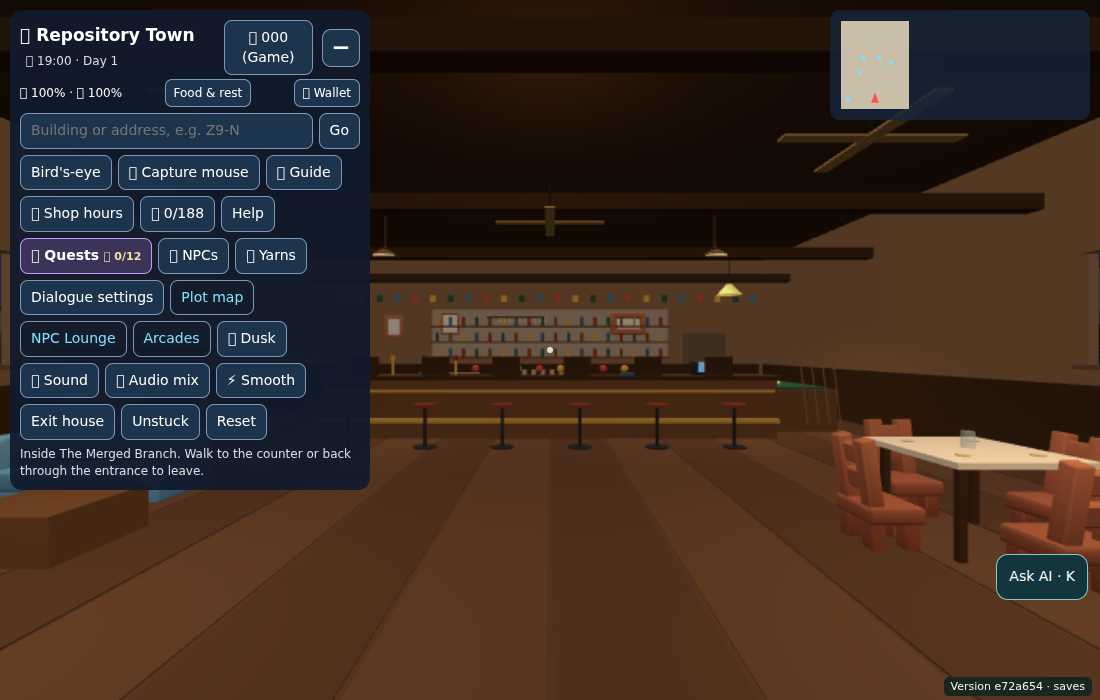
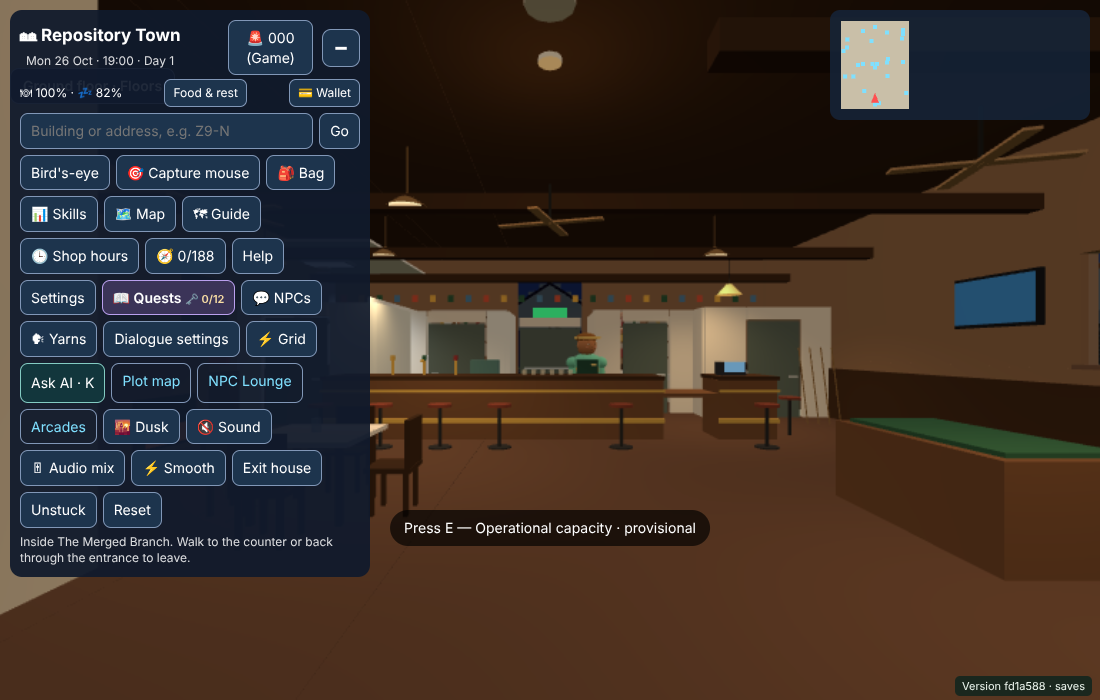
feat(interiors): realistic hardware & timber store, fully stocked general store, upgraded shared office template
Hardware: garden and paint by the door, stocked gondolas with printed aisle
signs, staffed trade & timber counter with fastener drawers, timber-yard
rack and log stack. General Store: open gondolas (stock was hidden behind
solid side panels) and instanced stock, 741 -> 231 meshes. Shared template
(ten buildings): panelled counter with PC and terminal, queue rope, open
stocked shelving, waiting area, framed notices and clock.

Claude-Session: https://claude.ai/code/session_01Df8YZa9C9g3jYmzSNjYYjR

diff --git a/repository-town/src/world/trade-education-interiors.js b/repository-town/src/world/trade-education-interiors.js
@@ -1,4 +1,4 @@
-import { createKit } from './interior-kit.js';
+import { createKit, signFace } from './interior-kit.js';
 
 // A shared collision-tested building envelope with four DISTINCT layouts.
 // Each showroom, classroom and workshop uses a central pedestrian aisle.
@@ -7,25 +7,7 @@ export function buildTradeEducationInterior(site,makeLabel){
  const k=createKit(site,makeLabel,site.name),{box,solid,cyl,ball,seat,add,model,text}=k;
  const WOOD=0x9e7957,STEEL=0x6c7a86,WHITE=0xeee9db,BROWN=0x60482e;
  if(site.id==='hardware'){
-   k.shell({wall:0xd7c2a3,ceiling:0xddd3bd,floor:0x9e9e92});
-   // Front service bench and stockroom at the rear. Central two-metre aisle.
-   solid(4.2,1.0,.85,3.7,.5,-6.45,BROWN);
-   box(1.5,.06,.72,4.8,1.08,-6.45,0xc5b6a1);
-   add('trade-counter','Buy and collect building materials','civic-ledger',
-     'Itemised stock, finite inventory, point-of-sale receipts and special-order repairs.',3.6,-5.25);
-   for(const x of [-5.2,-3.3,3.3,5.2]){
-     for(const z of [-7.6,-4.4,-1.2]){
-       solid(.85,2.3,1.25,x,1.15,z,STEEL);
-       for(const y of [.7,1.35,2.0]){
-         box(.7,.15,1.0,x,y,z,0xb6a37b);
-         for(const off of [-.31,.31])box(.18,.22,.62,x+off,y+.16,z,Math.abs(x)>4?0x5e8e9d:0xc7a46d);
-       }
-     }
-   }
-   for(const x of [-4.6,4.6]){solid(1.6,.75,.8,x,.37,3.35,0xb5a17f);box(1.5,.1,.7,x,.84,3.35,0xf6e4ad);}
-   text('Timber · Plumbing · Electrical · Tools',0,3.7,-8.9,'room');
-   add('paint','Paint mixing desk','info','Paint and coatings have finite stock, invoices and safe handling instructions.',-4.3,1.5);
-   add('special-orders','Goods receiving','info','Foundry parts, reclaimed metal and rail freight feed the warehouse. Stock cannot appear from nothing.',4.5,-7.8);
+   hardwareStore(k);
  }else if(site.id==='trades'){
    k.shell({wall:0xabb8c1,ceiling:0xcbd4db,floor:0x7b858c});
    // 2 enclosed storage bays and clear work access through centre.
@@ -89,5 +71,95 @@ export function buildTradeEducationInterior(site,makeLabel){
    add('library','Scholarly library and databases','info','Books, journals, research methods, scholarly integrity and supervised thesis projects.',-3.9,4.5);
    add('engineering','Engineering research lab','info','Structural analysis, town water modelling, energy systems and empirical data for the dissertation.',4.1,4.5);
  }
- return k.finish({staff:{pos:{x:1.1,z:-9.1},use:{x:1.1,z:-6.8}}});
+ // The hardware store's trade counter is staffed from behind; the others keep the shared desk spot.
+ return k.finish({staff:site.id==='hardware'?{pos:{x:3.9,z:-9.65},use:{x:3.9,z:-7.5}}:{pos:{x:1.1,z:-9.1},use:{x:1.1,z:-6.8}}});
 }
+
+// Central West Hardware & Timber, laid out like a regional Australian "hardware and timber" store
+// (Mitre 10 / Home Hardware format): garden and paint by the door, double-sided gondolas with
+// hanging aisle signs either side of a wide main aisle, the trade counter at the back with the
+// fastener drawers and key cutting behind it, and the timber yard's cantilever rack beside it.
+// Room: x ±7, z −12 (back) … 6 (door). Stock is drawn as instanced packets: one draw call each.
+function hardwareStore(k){
+ const {THREE,group,box,solid,cyl,add,text,blocker}=k;
+ const BROWN=0x60482e,STEEL=0x7d8a94,PEG=0xcdb48a,PINE=0xe2c48a,BACK=-11.88;
+ const packets=[],tins=[];
+ // Deterministic variety without randomness: the same store every visit.
+ const pick=(arr,i)=>arr[(i*7+Math.floor(i/3))%arr.length];
+ const shelfRow=(x,face,y,z0,z1,palette,seed,depth=.32)=>{
+   for(let z=z0,i=seed;z<z1-.12;i++){
+     const w=.16+((i*13)%5)*.05,h=.14+((i*11)%4)*.06;
+     packets.push({x:x+face*(.1+depth/2),y:y+h/2,z:z+w/2,sx:depth,sy:h,sz:w,c:pick(palette,i)});
+     z+=w+.03;
+   }
+ };
+ k.shell({wall:0xe4dccb,ceiling:0xe8e2d4,floor:0xa9a69b});
+ // Trade & timber counter at the back right, staff behind it facing the shop.
+ solid(4.4,1.0,.8,3.9,.5,-8.6,BROWN);
+ box(4.5,.06,.9,3.9,1.03,-8.6,0xc5b6a1);
+ box(.5,.3,.4,2.1,1.21,-8.7,0x8a949c);cyl(.07,.07,.02,2.0,1.4,-8.55,0x5b6168,{rx:Math.PI/2},16);  // key cutter
+ box(.36,.26,.05,4.6,1.2,-8.45,0x1f2a33,{e:0x2f6f9a});                                            // POS screen
+ // Fastener drawer wall behind the counter: rows of small labelled drawers.
+ solid(4.4,1.9,.55,3.9,.95,-11.55,0x8c949a);
+ for(let r=0;r<7;r++)for(let c=0;c<16;c++)packets.push({x:1.95+c*.26,y:.3+r*.24,z:-11.26,sx:.22,sy:.18,sz:.04,c:(r+c)%2?0xb9c0c5:0xa5adb3});
+ text('Trade counter · tools, materials and the timber yard',3.9,3.25,-8.4,'room');
+ add('trade-counter','Trade & timber counter · buy tools, sell logs','civic-ledger',
+   'Hatchets, tinderboxes and building materials from finite stock, with receipts. The timber yard buys logs here out of the till.',3.9,-7.5);
+ // Timber yard: a cantilever rack of treated pine lengths, and the logs the yard has bought.
+ for(const x of [-6.4,-4.2,-2.0]){box(.14,2.6,.16,x,1.3,-11.55,0x3f5566);for(let y=0;y<4;y++)box(.1,.06,.9,x,.35+y*.6,-11.2,0x3f5566);}
+ for(let y=0;y<4;y++)for(let j=0;j<5;j++)box(4.7,.09,.09,-4.2,.42+y*.6+(j%2)*.09,-11.6+j*.17,y%2?PINE:0xc9a56a);
+ blocker(4.9,1.0,-4.2,-11.3);
+ text('Timber yard · treated pine, hardwood, sleepers',-4.2,3.25,-11.0,'room');
+ for(let row=0;row<3;row++)for(let i=0;i<5-row;i++)cyl(.16,.16,1.9,-5.0+i*.36+row*.18,.17+row*.29,-9.4,0x8a6440,{rz:Math.PI/2},10);
+ blocker(2.3,.5,-4.3,-9.4);
+ add('timber-yard','Timber yard and log stack','info',
+   'Logs cut at the Town Woodlot are bought at the trade counter for the timber yard: ordinary logs $4, oak $9, willow $16 each, paid from the store’s own till.',-4.2,-8.3);
+ // Goods receiving: the roller door at the back between the yard and the counter.
+ box(2.6,2.7,.06,-.1,1.35,BACK+.04,0x9aa3a8);for(let i=0;i<9;i++)box(2.6,.03,.07,-.1,.2+i*.3,BACK+.06,0x7f878c);
+ add('special-orders','Goods receiving','info','Foundry parts, reclaimed metal and rail freight feed the warehouse. Stock cannot appear from nothing.',-.1,-10.4);
+ // Gondolas: two double-sided runs each side of the main aisle, aisle signs hanging above.
+ const AISLES=[
+   [-5.1,'Paint & adhesives',[0xd94c3d,0xf2f2ee,0x3b6fb6,0xf0c419,0x4d4d4d,0x2f8f5b]],
+   [-2.4,'Garden & outdoor',[0x4f9a3a,0x8b6a3d,0xd8b04a,0x2d6e3e,0xc0532f]],
+   [2.4,'Plumbing & electrical',[0xf4f4f0,0x2f6db3,0xe0a526,0x9aa3ab,0xd03b30]],
+   [5.1,'Tools & fasteners',[0xf2b705,0x2b2b2b,0xd2341f,0x3a7bd5,0x8e9aa4,0x2f7d32]],
+ ];
+ for(const [x,name,palette] of AISLES){
+   box(.9,.12,6.0,x,.06,-3.8,0x4a4f55);box(.06,1.95,6.0,x,1.0,-3.8,STEEL);blocker(.92,6.0,x,-3.8);
+   for(const [i,y] of [.18,.62,1.06,1.5].entries()){
+     box(.9,.03,6.0,x,y,-3.8,0xb8bec3);
+     for(const face of [-1,1])shelfRow(x,face,y+.015,-6.8,-.8,palette,i*31+(face>0?7:0)+Math.round(x*10));
+   }
+   box(1.4,.34,.04,x,2.75,-.75,0x1e6a3a);box(.02,.5,.02,x-.5,3.15,-.75,0x777777);box(.02,.5,.02,x+.5,3.15,-.75,0x777777);
+   signFace(THREE,group,name,1.36,.3,x,2.75,-.725);
+ }
+ // Pegboards on the side walls past the windows, hung with carded tools and packets.
+ for(const side of [-1,1]){
+   box(.04,1.6,4.2,side*6.86,1.55,-6.8,PEG);
+   for(let r=0;r<5;r++)for(let c=0;c<12;c++)packets.push({x:side*6.8,y:.95+r*.3,z:-8.6+c*.33,sx:.03,sy:.2,sz:.16,c:pick([0xd2341f,0x3a7bd5,0xf2b705,0x2f7d32,0x2b2b2b],r*12+c)});
+ }
+ // Paint by the door: a tin wall on the left and the tinting desk.
+ solid(.6,2.1,3.0,-6.62,1.05,3.7,0xd9d4c8);
+ for(let r=0;r<5;r++)for(let c=0;c<9;c++)tins.push({x:-6.25,y:.3+r*.4,z:2.45+c*.31,c:pick([0xf2f2ee,0xe8dcc0,0xd94c3d,0x3b6fb6,0x6c8f5a,0x4d4d4d],r*9+c)});
+ solid(1.6,.95,.7,-4.6,.47,2.6,0xe9e6df);box(.5,.55,.45,-5.1,1.23,2.6,0xd6d8da);box(.42,.3,.05,-4.4,1.12,2.28,0x2a2d31,{e:0x2f6f9a});
+ text('Paint mixing · any colour, while you wait',-4.6,2.6,2.6,'room');
+ add('paint','Paint mixing desk','info','Paint and coatings have finite stock, invoices and safe handling instructions. Colours are tinted to order at the desk.',-4.3,1.5);
+ // Garden by the door on the right: bagged potting mix on a pallet, pots and wheelbarrows.
+ solid(1.2,.12,1.0,4.7,.06,3.4,0xb08a5a);
+ for(let y=0;y<4;y++)for(const dz of [-.25,.25])box(1.1,.16,.46,4.7,.2+y*.17,3.4+dz,y%2?0x3d6b2f:0x5b3c22);
+ blocker(1.2,1.0,4.7,3.4);
+ for(const [x,z,r] of [[6.2,4.6,.28],[6.2,3.9,.22],[6.3,3.3,.18]]){cyl(r,r*.75,r*1.6,x,r*.8,z,0xb8643c);}
+ blocker(.8,2.0,6.2,3.95);
+ for(const z of [1.9,0.7]){box(.75,.32,.55,3.7,.62,z,0x2f6db3);box(.06,.06,1.0,3.38,.7,z+.7,0x555555);box(.06,.06,1.0,4.02,.7,z+.7,0x555555);cyl(.18,.18,.07,3.7,.2,z-.28,0x222222,{rz:Math.PI/2},12);}
+ blocker(.9,2.2,3.7,1.6);
+ text('Garden & outdoor',4.9,2.4,3.4,'room');
+ // Instanced stock: packets and drawers as one mesh, paint tins as another.
+ const m4=new THREE.Matrix4(),q=new THREE.Quaternion(),col=new THREE.Color();
+ const pm=new THREE.InstancedMesh(new THREE.BoxGeometry(1,1,1),new THREE.MeshLambertMaterial({color:0xffffff}),packets.length);
+ packets.forEach((p,i)=>{m4.compose(new THREE.Vector3(p.x,p.y,p.z),q,new THREE.Vector3(p.sx,p.sy,p.sz));pm.setMatrixAt(i,m4);pm.setColorAt(i,col.setHex(p.c));});
+ pm.name='hardware-stock';group.add(pm);
+ const tm=new THREE.InstancedMesh(new THREE.CylinderGeometry(.13,.13,.3,12),new THREE.MeshLambertMaterial({color:0xffffff}),tins.length);
+ tins.forEach((p,i)=>{m4.compose(new THREE.Vector3(p.x,p.y,p.z),q,new THREE.Vector3(1,1,1));tm.setMatrixAt(i,m4);tm.setColorAt(i,col.setHex(p.c));});
+ tm.name='paint-tins';group.add(tm);
+}
+

diff --git a/repository-town/src/world/store-interior.js b/repository-town/src/world/store-interior.js
@@ -1,4 +1,4 @@
-import { createKit, ROOM } from './interior-kit.js';
+import { createKit, ROOM, signFace } from './interior-kit.js';
 
 // The General Store, laid out like an Australian country general store:
 //   • A basket stack, a newspaper and magazine rack and a bright produce table just inside the door.
@@ -34,13 +34,16 @@ export function buildStoreInterior(site, makeLabel, roomTitle = 'General Store')
   const goods = Object.keys(site.target || {}), stock = site.stock || {};
   const frac = goods.length ? Math.max(0.2, Math.min(1, goods.reduce((s, g) => s + Math.min(1, (stock[g] || 0) / (site.target[g] || 1)), 0) / goods.length)) : 1;
   const PACK = [0xc9553d, 0xe3b04b, 0x4f7fa6, 0x6f9a54, 0xd8d0b8, 0x8a5a8e];
+  // Tins and packets are collected here and drawn as two instanced meshes at the end (two draw
+  // calls instead of several hundred, which matters on phones).
+  const tins = [], packs = [];
   const stockRow = (x, y, z, len, axis, i0) => {          // a row of tins/packets along a shelf, thinned when stock is low
-    const n = Math.floor(len / 0.3);
+    const n = Math.floor(len / 0.22);
     for (let i = 0; i < n; i++) {
       if ((i * 37 + Math.round(i0) * 11) % 100 / 100 > frac) continue;
-      const c = PACK[Math.abs(Math.round(i + i0)) % PACK.length], h = 0.2 + (Math.abs(Math.round(i * 7 + i0)) % 3) * 0.04;
-      const px = axis === 'x' ? x - len / 2 + 0.15 + i * 0.3 : x, pz = axis === 'z' ? z - len / 2 + 0.15 + i * 0.3 : z;
-      if (Math.round(i + i0) % 3 === 0) cyl(0.07, 0.07, h, px, y + h / 2, pz, c, {}, 8); else box(0.18, h, 0.16, px, y + h / 2, pz, c);
+      const c = PACK[Math.abs(Math.round(i * 5 + i0)) % PACK.length], h = 0.2 + (Math.abs(Math.round(i * 7 + i0)) % 3) * 0.04;
+      const px = axis === 'x' ? x - len / 2 + 0.11 + i * 0.22 : x, pz = axis === 'z' ? z - len / 2 + 0.11 + i * 0.22 : z;
+      (Math.round(i + i0) % 3 === 0 ? tins : packs).push({ x: px, y: y + h / 2, z: pz, h, c });
     }
   };
 
@@ -70,14 +73,18 @@ export function buildStoreInterior(site, makeLabel, roomTitle = 'General Store')
     // The shelf carcass used to be a solid box with four shelf slabs buried inside it.
     // Their coplanar faces fought the depth buffer (grey flashing lines). Build an
     // open-backed metal frame instead, with shelf slabs sitting clear of the uprights.
-    solid(0.10, 1.7, 5.4, gx - 0.45, 0.85, -0.2, 0x8c8f93);
-    solid(0.10, 1.7, 5.4, gx + 0.45, 0.85, -0.2, 0x8c8f93);
+    // A thin centre spine, open on both faces so the stock shows from each aisle.
+    box(0.06, 1.75, 5.3, gx, 0.88, -0.2, 0x8c8f93); k.blocker(1.0, 5.4, gx, -0.2);
     for(const ez of [-2.85,2.45])box(0.9,1.7,0.08,gx,0.85,ez,0x8c8f93);
     for (const y of [0.3, 0.75, 1.2, 1.6]) { box(0.78, 0.04, 5.16, gx, y, -0.2, 0xb4b8bc); stockRow(gx - 0.2, y + 0.02, -0.2, 5.0, 'z', gx * 3 + y * 7); stockRow(gx + 0.2, y + 0.02, -0.2, 5.0, 'z', gx * 5 + y * 3); }
     box(1.0, 0.3, 0.06, gx, 1.95, -0.2, RED);                 // end-cap header
-    solid(1.1, 0.9, 0.5, gx, 0.45, 2.75, RED); text('Specials', gx, 1.4, 2.75);
+    solid(1.1, 0.9, 0.5, gx, 0.45, 2.75, RED); stockRow(gx, 0.9, 2.75, 1.0, 'x', gx * 9); text('Specials', gx, 1.4, 2.75);
   }
-  text('Dry goods', -3.6, 2.25, -2.6); text('Pantry', 3.6, 2.25, -2.6);
+  // Hanging aisle signs, printed so they read from the door.
+  for (const [gx, words] of [[-3.6, 'Dry goods · Baking'], [3.6, 'Pantry · Tins · Tea']]) {
+    box(1.6, 0.34, 0.04, gx, 2.6, 0.2, 0x7a2f26); for (const dx of [-0.6, 0.6]) box(0.02, 1.8, 0.02, gx + dx, 3.6, 0.2, 0x777777);
+    signFace(THREE, group, words, 1.56, 0.3, gx, 2.6, 0.225, '#7a2f26');
+  }
 
   // ── produce table, basket stack, newspapers ──
   solid(2.0, 0.8, 1.0, 0, 0.4, -1.2, TIMBER);
@@ -113,5 +120,12 @@ export function buildStoreInterior(site, makeLabel, roomTitle = 'General Store')
   add('shelves', 'Pantry shelves', 'info', 'Flour, tea, coffee and tinned goods fill the gondolas and wall shelves. They thin out when a delivery is late.', -1.3, 2.6);
   add('papers', 'Papers and magazines', 'info', 'The rack by the door has the week\'s papers, magazines and a notice or two from the Town Hall.', 4.6, 3.6);
   k.placedProps.push({ type: 'noticeboard', room: 0 });
+  const m4 = new THREE.Matrix4(), q = new THREE.Quaternion(), col = new THREE.Color();
+  for (const [list, geo, name] of [[packs, new THREE.BoxGeometry(0.17, 1, 0.16), 'store-packets'], [tins, new THREE.CylinderGeometry(0.07, 0.07, 1, 10), 'store-tins']]) {
+    if (!list.length) continue;
+    const m = new THREE.InstancedMesh(geo, new THREE.MeshLambertMaterial({ color: 0xffffff }), list.length);
+    list.forEach((p, i) => { m4.compose(new THREE.Vector3(p.x, p.y, p.z), q, new THREE.Vector3(1, p.h, 1)); m.setMatrixAt(i, m4); m.setColorAt(i, col.setHex(p.c)); });
+    m.name = name; group.add(m);
+  }
   return k.finish({ staff: { pos: STORE_LAYOUT.staff, use: STORE_LAYOUT.staffUse } });
 }

diff --git a/repository-town/src/world/shop-interior.js b/repository-town/src/world/shop-interior.js
@@ -171,21 +171,46 @@ export function buildCivicInterior(site,makeLabel,life=null) {
   const shell=highStreetShell({box,solid,wall:0xc3b6a4,frontSill:0.6,sideSill:0.9});
   group.add(shell.glass);
   box(BASE_W-0.5,0.16,0.5,0,3.65,BACK+0.5,accent);
-  // A facing counter, with 3m clearance down the central entrance aisle.
+  // A facing counter, with 3m clearance down the central entrance aisle: a panelled front, a
+  // laminate top, the staff computer, a card terminal and a brochure stand, as in a council or
+  // agency front office.
   solid(8,1.2,1.2,0,0.6,-6.4,0x735844);
   box(7.7,0.15,1.35,0,1.25,-6.4,accent);
-  // Side shelves and displays are inside their room, never inside doorway.
+  for(let i=0;i<7;i++)box(0.95,0.85,0.03,-3.45+i*1.15,0.6,-5.78,0x5e4635);
+  box(0.62,0.42,0.05,-0.9,1.62,-6.75,0x23272c);box(0.56,0.36,0.01,-0.9,1.62,-6.72,0x5f98c4);box(0.08,0.2,0.08,-0.9,1.42,-6.8,0x23272c);
+  box(0.12,0.05,0.2,0.9,1.36,-6.05,0x2a2d31);box(0.09,0.004,0.09,0.9,1.39,-6.08,0x6fb8e0);
+  box(0.5,0.32,0.12,2.6,1.48,-6.0,0x9aa3ab);for(let i=0;i<3;i++)box(0.12,0.22,0.02,2.42+i*0.18,1.5,-5.93,[0xe0a526,0x3b6fb6,0xd94c3d][i]);
+  // A queue rope keeps the line off the door path.
+  for(const x of [-1.6,1.6]){box(0.08,0.95,0.08,x,0.48,-3.6,0xc9a24a);box(0.32,0.04,0.32,x,0.02,-3.6,0x8a7a4a);}
+  box(3.2,0.04,0.04,0,0.82,-3.6,0x8a2f2a);
+  // Side shelving: open steel bays (no solid carcass) stocked with binders, boxes and leaflets.
+  const stock=[];
   for(const sx of [-5.4,5.4]){
-    solid(1.5,2.3,3.0,sx,1.15,-7.9,0x625c54);
-    for(const z of [-8.8,-7.8,-6.8]){
-      box(1.34,0.13,0.65,sx,1.2,z,0xd1bc8f);
-      for(const dx of [-0.35,0.35]) box(0.35,0.65,0.4,sx+dx,1.58,z,accent);
+    box(0.06,2.3,3.0,sx+Math.sign(sx)*0.68,1.15,-7.9,0x6d737a);colliders.push({x0:sx-0.75,x1:sx+0.75,z0:-9.4,z1:-6.4});
+    for(const z of [-9.38,-6.42])box(1.5,2.3,0.05,sx,1.15,z,0x6d737a);
+    for(const [r,y] of [0.35,0.95,1.55,2.15].entries()){
+      box(1.4,0.04,2.9,sx,y,-7.9,0xc9cdd0);
+      for(let i=0,z=-9.25;z<-6.6;i++){const w=0.07+((i*5+r)%4)*0.03,h=0.24+((i*3+r)%3)*0.06;stock.push({x:sx-Math.sign(sx)*0.1,y:y+0.02+h/2,z:z+w/2,w,h,c:[accent,0xf2efe6,0x3b6fb6,0x2f7d5a,0xd9a441,0x8a3b3b][(i*7+r*3)%6]});z+=w+0.02;}
     }
+  }
+  if(stock.length){
+    const im=new THREE.InstancedMesh(new THREE.BoxGeometry(1,1,1),new THREE.MeshLambertMaterial({color:0xffffff}),stock.length);
+    const m4=new THREE.Matrix4(),q=new THREE.Quaternion(),col=new THREE.Color();
+    stock.forEach((p,i)=>{m4.compose(new THREE.Vector3(p.x,p.y,p.z),q,new THREE.Vector3(0.24,p.h,p.w));im.setMatrixAt(i,m4);im.setColorAt(i,col.setHex(p.c));});
+    im.name='office-shelf-stock';group.add(im);
   }
   for(const x of [-3.6,3.6]){
     box(1.0,0.7,1.0,x,0.35,-10.3,0x876b4d);
     box(0.8,0.45,0.8,x,0.92,-10.3,accent);
   }
+  // Waiting area by the front windows: three chairs, a pot plant and a water cooler.
+  for(const z of [3.2,3.9,4.6]){box(0.5,0.06,0.48,-6.3,0.46,z,0x3b4a5a);box(0.06,0.5,0.48,-6.56,0.72,z,0x3b4a5a);for(const dz of [-0.2,0.2])box(0.04,0.45,0.04,-6.3,0.22,z+dz,0x9aa3ab);}
+  colliders.push({x0:-6.6,x1:-6.0,z0:2.9,z1:4.9});
+  box(0.36,0.4,0.36,6.2,0.2,4.9,0xb8643c);box(0.7,0.8,0.7,6.2,0.95,4.9,0x4f8f43);colliders.push({x0:5.95,x1:6.45,z0:4.65,z1:5.15});
+  box(0.32,0.95,0.32,6.3,0.48,-4.5,0xe8e8e8);box(0.28,0.42,0.28,6.3,1.17,-4.5,0x8cc8e8);colliders.push({x0:6.1,x1:6.5,z0:-4.7,z1:-4.3});
+  // Framed notices, a licence certificate and a wall clock behind the counter.
+  for(const [x,c] of [[-2.6,0xf3ecd8],[2.6,0xe6eef3]]){box(0.9,0.65,0.04,x,2.3,BACK+0.15,0x3a3027);box(0.8,0.55,0.01,x,2.3,BACK+0.175,c);}
+  box(0.5,0.5,0.03,0,2.55,BACK+0.15,0x1d1d1d);box(0.44,0.44,0.01,0,2.55,BACK+0.17,0xf4f0e2);box(0.02,0.16,0.005,0,2.6,BACK+0.18,0x1d1d1d);box(0.12,0.02,0.005,0.05,2.55,BACK+0.18,0x1d1d1d);
   // Fixture identity cues (lamps, noticeboards, produce / shelves).
   for(const x of [-4.7,0,4.7]) {
     const fixture=box(1.25,0.13,0.75,x,4.42,-3.8,0xffe4a5);

diff --git a/repository-town/src/world/interior-kit.js b/repository-town/src/world/interior-kit.js
@@ -130,3 +130,16 @@ export function createKit(site, makeLabel, roomTitle) {
   };
   return { THREE, group, colliders, interactables, sceneObjects, placedProps, mat, geo, put, model, box, cyl, ball, torus, blocker, solid, text, add, seat, shell, finish };
 }
+
+// Printed sign lettering on a plane (always readable, unlike hover labels). Skipped without a DOM.
+export function signFace(THREE,group,words,w,h,x,y,z,bg='#1e6a3a',fg='#ffffff'){
+ if(typeof document==='undefined')return;
+ const c=document.createElement('canvas');c.width=512;c.height=Math.round(512*h/w);
+ const g=c.getContext('2d');if(!g)return;
+ g.fillStyle=bg;g.fillRect(0,0,c.width,c.height);g.fillStyle=fg;
+ g.font='bold '+Math.round(c.height*.52)+'px system-ui, sans-serif';g.textAlign='center';g.textBaseline='middle';
+ g.fillText(words,c.width/2,c.height/2,c.width*.94);
+ const t=new THREE.CanvasTexture(c);t.colorSpace=THREE.SRGBColorSpace;
+ const m=new THREE.Mesh(new THREE.PlaneGeometry(w,h),new THREE.MeshBasicMaterial({map:t}));
+ m.position.set(x,y,z);m.name='sign-face';group.add(m);
+}

diff --git a/repository-town/COORDINATION.md b/repository-town/COORDINATION.md
@@ -176,6 +176,25 @@ Newest first. Times in Australia/Sydney.
 
 ## Done
 
+- 2026-10-29 · Claude — **Realism where players go: hardware, general store, shared office template** (branch `feat/realism-hardware-store-20261029`).
+  - **Central West Hardware & Timber** (`trade-education-interiors.js` `hardwareStore`) is rebuilt as a regional "hardware and timber" store:
+    - the garden display and the paint tin wall with tinting desk are by the door;
+    - four double-sided gondolas, with printed hanging aisle signs, line each side of a 3.9 m main aisle;
+    - the staffed trade & timber counter is at the back right (staff behind at z −9.65), with fastener drawers and a key cutter;
+    - the timber-yard cantilever rack and log stack are beside it (the first-day quest sells logs here), with the roller door for goods receiving;
+    - side-wall pegboards are hung with tools.
+  - **General Store:**
+    - each gondola's two opaque 5.4 m side panels hid all of its stock; a thin centre spine replaces them, and the collider is unchanged;
+    - stock is now two instanced meshes, so the room has **231 meshes instead of 741** with denser shelves;
+    - printed aisle signs and stocked Specials end-caps added.
+  - **Shared single-room template**, used by ten buildings (town hall, council, market, factory, farm office, park, square, security HQ and office, locksmith):
+    - a panelled counter with a staff PC, card terminal and brochure stand, and a queue rope;
+    - open steel shelving with instanced binders and boxes;
+    - a waiting area (chairs, plant, water cooler), plus framed notices and a clock on the back wall's inner face.
+  - New `signFace()` in `interior-kit.js` paints readable sign lettering.
+  - `tests/shop-interiors.mjs` now counts instanced items in its "richly furnished" checks.
+  - Not changed: the café, bank and pub (already researched and convincing; the pub is audited).
+
 - 2026-10-28 · Codex — SOURCE FIX COMPLETE / MERGE BLOCKED: PR #261 fixes stale touch movement/look and mouse drag surviving menu/reset/blur in `src/engine/input.js`; regression added to `test:browser`. Baseline fails; corrected desktop/phone DOM gesture tests pass. Streets 7/8 both footpaths keyboard-walked end-to-end, zero problems (avenues/other streets not included). Fire/power door + 35 exhibits + exits passed, no page errors. Full local `npm run build:release` passed including privacy/integrity. A1 desktop/touch exhibit round trips passed, but overall e2e RED (run-speed assertion + 8 ERR_EMPTY_RESPONSE resources). Remote complete-browser gate RED at café order-taking; original input replay also failed café delivery waiting forever for Ivo to sit. No fix to café/world claimed. Remains draft/unmerged and not deployed; checkpoint records exact evidence.
 
 - 2026-10-26 · ChatGPT — **VERIFIED MERGED AND LIVE RTBUILD-068 M5-N cemetery office**. [PR #239](https://github.com/joshualparris/JoshMemory/pull/239) squash-merged to main commit `bbe42b60916ef0f5ddc772c3a43be2e1345acd36`. Researched NSW cemetery reception with true 12×9m fictional footprint, pitched roof/verandah/landscape, physically walkable public reception, private family room and records room, eight safe info points, no actual deceased records or grave plots. All five 28-day simulations, full town safety/release/privacy gate, Android emulation, heritage and recorded desktop/Android-size WebGL door round trip **passed** at integration SHA `5006c0d610931e3fc906f37d9aff1da10ba89c87`. Production Vercel deployment `dpl_GgoMheDGk6haXuKGY4PTxh8Cwohb` **READY**, public alias `repository-town-claude-complete.vercel.app` resolves to exact merged SHA. Separate existing pub-audit-current source-hash gate red due unrelated historical changes (not modified here). No real-world cemetery certification or physical-handset claim. Research and exclusions `docs/M5_CEMETERY_OFFICE_REALISM_2026-10-26.md`.
